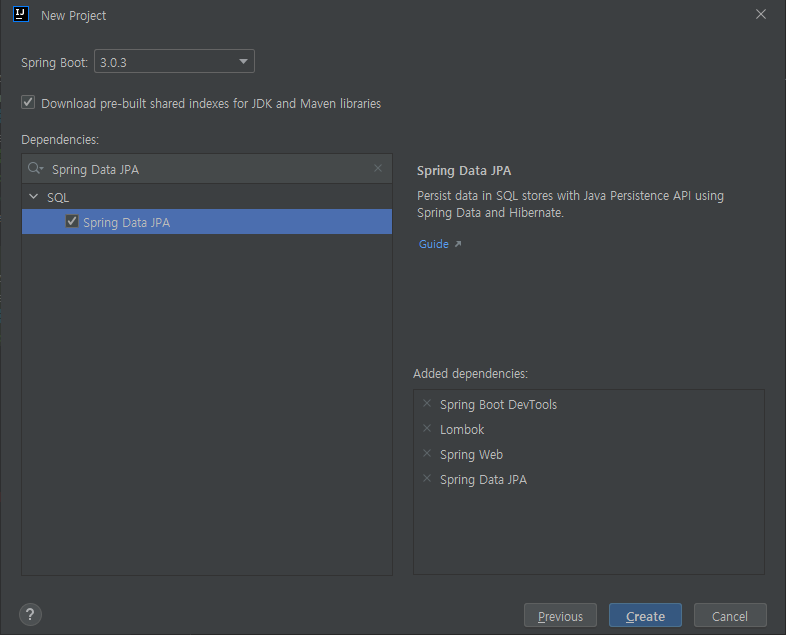
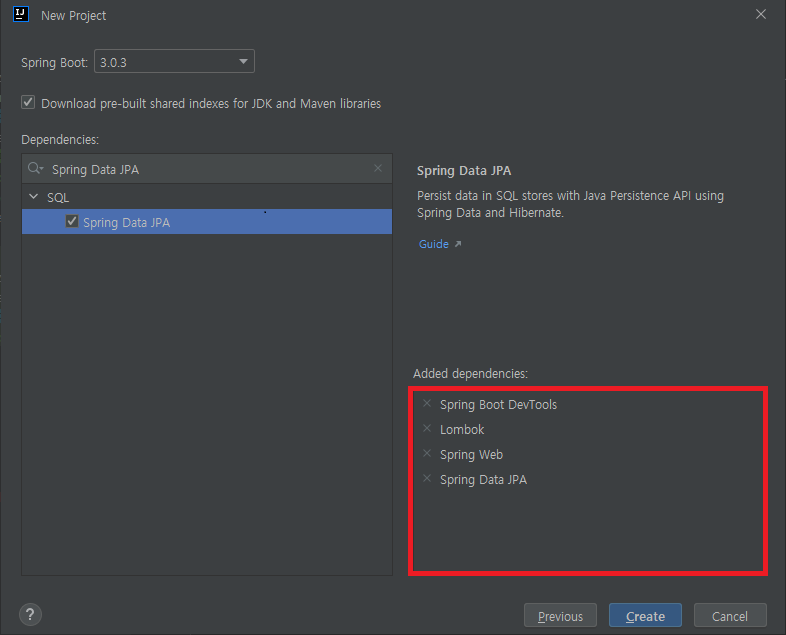
스프링 게시글수정

Changed region(s): [[0.5191, 0.5984, 0.9771, 0.9276]]

diff --git a/_posts/study/spring/2023-02-09-[Spring]_Spring_Data_JPA를_이용하는_프로젝트_생성하기.md b/_posts/study/spring/2023-02-09-[Spring]_Spring_Data_JPA를_이용하는_프로젝트_생성하기.md
@@ -2,7 +2,7 @@
 layout: post
 title: "[Spring] Spring Data JPA를 이용하는 프로젝트 생성하기"
 subtitle: Spring
-date: '2023-02-08 11:40:00 +0900'
+date: '2023-02-09 11:40:00 +0900'
 category: study
 tags: spring web
 image:
@@ -17,7 +17,7 @@ image:
 {:toc}
 <br>
 
-AWS RDS에 Maria DB를 연동해 구현한 데이터베이스를 스프링부트 프로젝트에서 데이터베이스를 사용해 보겠습니다.<br><br>
+[MySQL_Workbench_시작하기](https://heesung98.github.io/study/MariaDB-_MySQL_Workbench_%EC%8B%9C%EC%9E%91%ED%95%98%EA%B8%B0.html) MariaDB를 통해 생성한 데이터베이스를 스프링부트 프로젝트에서 사용해 보겠습니다.<br><br>
 ---
 <br>
 
@@ -30,39 +30,47 @@ AWS RDS에 Maria DB를 연동해 구현한 데이터베이스를 스프링부트
 
 <br>
 
-# 2. 새 프로젝트 만들기
+# 2. 의존성 선택
 ---
 <br>
 
 ![2](/assets/img/study_Web/spring/2023-02-08-[Spring]_Spring_Data_JPA를_이용하는_프로젝트_생성하기/2.PNG)
 
+프로젝트에 추가할 의존성은 그림의 빨간색 상자를 통해 확인할 수 있습니다. 데이터베이스를 활용하기 위해서는 반드시 'Spring Data JPA'의존성을 추가해야 합니다.
+
 <br>
 
-# 3. 새 프로젝트 만들기
+# 3. 생성된 프로젝트의 build.gradle에 라이브러리 추가
 ---
 <br>
 
 ![3](/assets/img/study_Web/spring/2023-02-08-[Spring]_Spring_Data_JPA를_이용하는_프로젝트_생성하기/3.PNG)
 
+처음 생성한 프로젝트와는 달리 이번에 생성한 프로젝트는 Ex2Application을 실행할 경우 에러 메시지가 출력됩니다. 프로젝트 내에 Spring Data JPA 라이브러리가 추가됐기 때문에 자동적으로 설정은 추가되었으나 구체적인 값이 지정되지 않아서 발생하는 문제입니다.<br>
+이를 해결하기 위해 build.gradle에 `implementation 'mysql:mysql-connector-java:8.0.31'`을 작성하겠습니다.
+
 <br>
 
-# 4. 새 프로젝트 만들기
+# 4. 스프링 프로젝트 데이터베이스 설정
 ---
 <br>
 
 ![4](/assets/img/study_Web/spring/2023-02-08-[Spring]_Spring_Data_JPA를_이용하는_프로젝트_생성하기/4.PNG)
+application.properties 파일에 생성한 프로젝트의 엔드포인트와 master-id, password를 작성합니다.
+
 
 <br>
 
-# 5. 새 프로젝트 만들기
+# 5. 프로젝트 실행이 정상적으로 되는지 확인
 ---
 <br>
 
 ![5](/assets/img/study_Web/spring/2023-02-08-[Spring]_Spring_Data_JPA를_이용하는_프로젝트_생성하기/5.PNG)
+build.gradle과 application.properties 두 가지 파일을 수정한 뒤 Ex2Application을 실행한다면 정상적으로 프로젝트가 실행되는 것을 확인할 수 있습니다.
 
 <br>
 
-# 6. 새 프로젝트 만들기
+# 6. 엔티티 클래스 작성
 ---
 <br>
 
@@ -70,7 +78,7 @@ AWS RDS에 Maria DB를 연동해 구현한 데이터베이스를 스프링부트
 
 <br>
 
-# 7. 새 프로젝트 만들기
+# 7. 엔티티 클래스 수정
 ---
 <br>
 
@@ -78,7 +86,7 @@ AWS RDS에 Maria DB를 연동해 구현한 데이터베이스를 스프링부트
 
 <br>
 
-# 8. 새 프로젝트 만들기
+# 8. JPA 관련 apllication.properties 작성
 ---
 <br>
 
@@ -86,7 +94,7 @@ AWS RDS에 Maria DB를 연동해 구현한 데이터베이스를 스프링부트
 
 <br>
 
-# 9. 새 프로젝트 만들기
+# 9. 데이터베이스와의 연동 확인
 ---
 <br>
 

diff --git a/_posts/study/mariadb/2023-02-08-[MariaDB]_MySQL_Workbench_시작하기.md b/_posts/study/mariadb/2023-02-08-[MariaDB]_MySQL_Workbench_시작하기.md
@@ -2,7 +2,7 @@
 layout: post
 title: "[MariaDB] MySQL Workbench 시작하기"
 subtitle: Mariadb
-date: '2023-02-06 11:40:00 +0900'
+date: '2023-02-08 11:40:00 +0900'
 category: study
 tags: mariadb web
 image:
